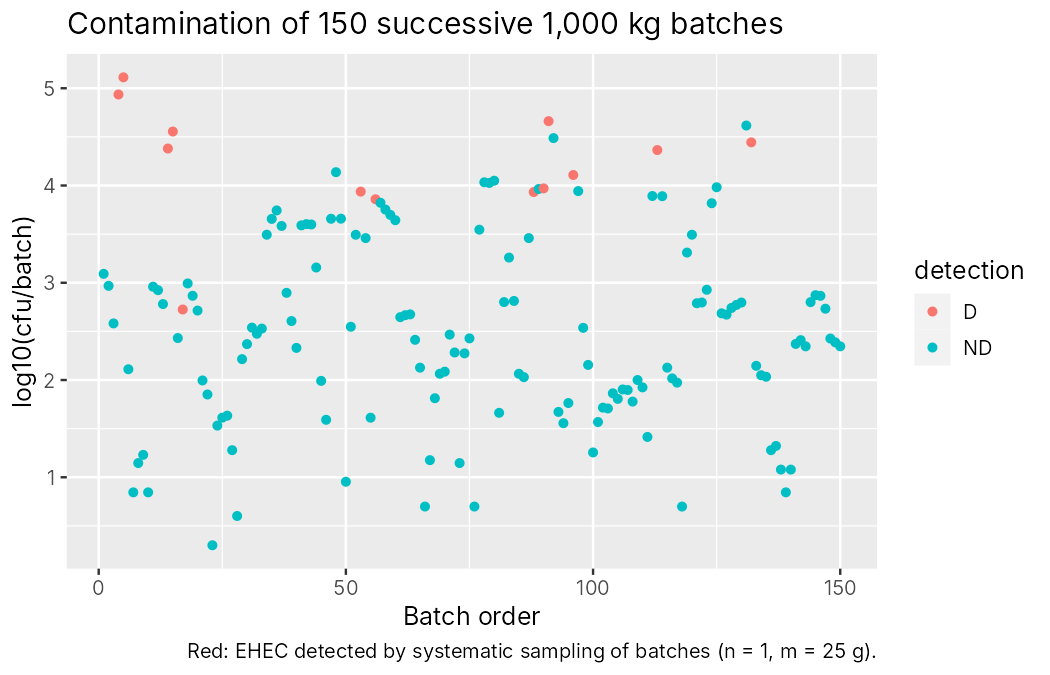
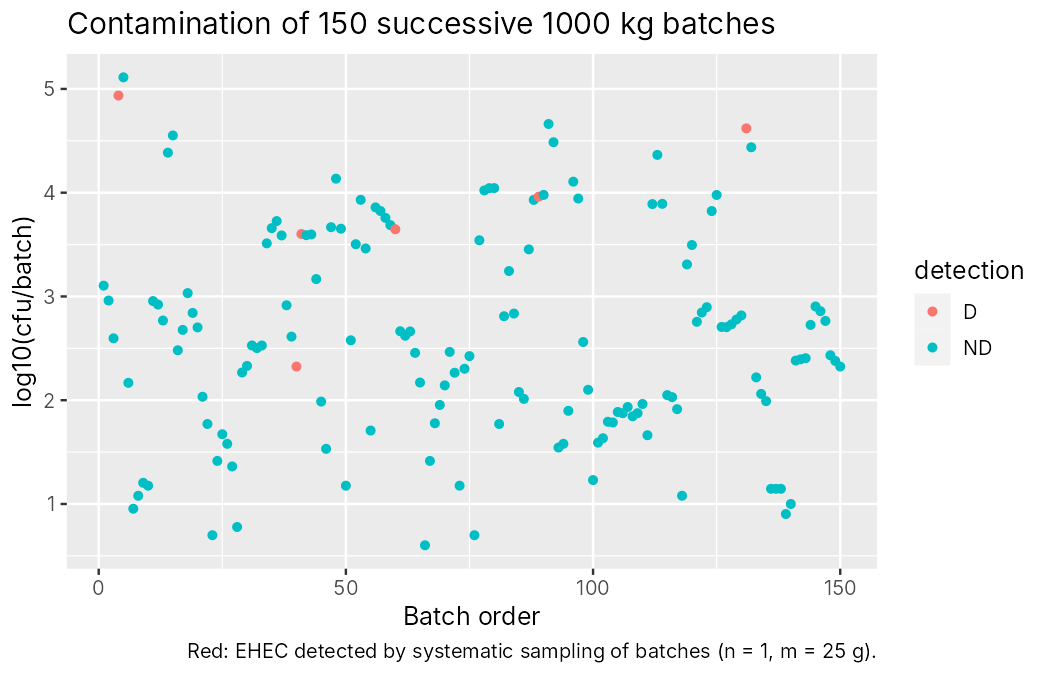
Mixing: fixed b by default, exact mass balance, box mass from the data
- b is fixed at 1 by default and set with b=..., or drawn per batch with
  b_mode=uniform b_min=... b_max=...
- boxes keep their own mass (mass_g), which can differ from the batch mass;
  the recipe is 60/30/10 shares of the batch mass, adjustable with batch_kg
- the mixer holds batch mass + residue: the first batch takes the residue
  too, every batch leaves at exactly batch_kg, the residue stays in the mixer
- mass and bacteria balance (boxes = batches + mixer residue + left in
  boxes) written to output/balance.csv and checked at the end of the run
- parameters can be set as name=value command-line arguments

Claude-Session: https://claude.ai/code/session_01Y1Es8Jbu28C3hz135Bheyj

diff --git a/README.md b/README.md
@@ -27,7 +27,7 @@ data/
 R/
   mix_vph_batches.R              mixing of VPH boxes into batches, Figures 13 to 15
 figures/                         figures produced by R/mix_vph_batches.R
-output/                          summary.csv (batches.csv is regenerated, not versioned)
+output/                          summary.csv, balance.csv (batches.csv is regenerated, not versioned)
 docs/
   index.html                     entry page for the explainers
   vph-box-filling.html           step 1: from 60 carcasses to one VPH box
@@ -67,16 +67,23 @@ All three types share the same upstream contamination distribution; the type lab
 
 [`R/mix_vph_batches.R`](R/mix_vph_batches.R) mixes the boxes of `data/vph_contamination.csv` into minced beef batches following the scenario of Section 3.4.6 (Figure 12) and reproduces Figures 13 to 15 of the opinion:
 
-- each 1,000 kg batch takes 600 kg of chilled fatty, 300 kg of chilled lean and 100 kg of frozen VPH, boxes being used first in, first out until empty (a fatty box feeds about 1.7 batches, a lean box 3.3, a frozen box 10); the 30,000 / 15,000 / 5,000 boxes of the file give 50,000 batches;
-- a box's bacteria are shared between the batches it feeds in proportion to the mass taken (binomial split of the integer counts by default, or proportional split of the expected numbers with `split_mode <- "expected"`);
-- 1/1000 of each batch's bacteria stays in the mixer and goes into the next batch;
-- each batch is tested once (n = 1, absence in 25 g); the probability of detection is 1 − (b / (μ′ + b))^b (Equation 7), with μ′ the mean count in 25 g and the heterogeneity coefficient b drawn uniformly in [0.5, 2] for each batch.
+- each batch is made of 60% chilled fatty, 30% chilled lean and 10% frozen VPH; boxes are used first in, first out until empty, so a box can feed several successive batches and a batch can take material from two boxes of the same type;
+- each box keeps its own mass (column `mass_g`), which can differ from the batch mass; with 1,000 kg boxes and batches, a fatty box feeds about 1.7 batches, a lean box 3.3 and a frozen box 10;
+- a box's bacteria go to the batches in proportion to the mass taken (binomial split of the integer counts by default, or proportional split of the expected numbers with `split_mode=expected`);
+- after each discharge the mixer keeps a residue of 0.1% of the batch mass, which goes into the next batch with its share of the bacteria;
+- each batch is tested once (n = 1, absence in 25 g); the probability of detection is 1 − (b / (μ′ + b))^b (Equation 7), with μ′ the mean count in 25 g and a heterogeneity coefficient b = 1 by default.
+
+**Mass balance.** The mixer always holds the batch mass plus the residue before it discharges: the first batch takes batch mass + residue of fresh VPH, the following ones the batch mass. Every batch therefore leaves at exactly the batch mass, the residue stays in the mixer at the end, and the unused part of the boxes stays in the boxes. The script checks that mass and bacteria in the boxes equal what is in the batches, in the mixer residue and left in the boxes, writes this balance to `output/balance.csv` and stops if it does not close.
 
 ```sh
-Rscript R/mix_vph_batches.R   # from the repository root; needs dplyr and ggplot2
+Rscript R/mix_vph_batches.R                                 # defaults: 1,000 kg batches, b = 1
+Rscript R/mix_vph_batches.R batch_kg=500 b=1.3              # other batch mass and b
+Rscript R/mix_vph_batches.R b_mode=uniform b_min=0.5 b_max=2   # b drawn per batch
 ```
 
-Outputs: `output/batches.csv` (one row per batch: bacteria, boxes used, b, probability of detection, result; not versioned, about 6 MB), `output/summary.csv` and three figures:
+Run it from the repository root; it needs `dplyr` and `ggplot2`. Parameters (`batch_kg`, `carry_over`, `sample_g`, `b_mode`, `b`, `b_min`, `b_max`, `n_enhanced`, `far_lag`, `n_plot`, `split_mode`, `seed`, `input_file`) can be changed at the top of the script or as `name=value` arguments.
+
+Outputs: `output/batches.csv` (one row per batch: bacteria, mass, bacteria carried in, boxes used with the kg taken from each, b, probability of detection, result; not versioned, about 6 MB), `output/summary.csv`, `output/balance.csv` and three figures:
 
 | Figure | Content |
 |---|---|
@@ -84,7 +91,7 @@ Outputs: `output/batches.csv` (one row per batch: bacteria, boxes used, b, proba
 | [`figures/fig14_detection_probability.png`](figures/fig14_detection_probability.png) | probability of detection of the same batches (Figure 14) |
 | [`figures/fig15_cdf_neighbours.png`](figures/fig15_cdf_neighbours.png) | cumulative distributions of contamination for detected batches, the batches just before and after them, and batches 5 away (Figure 15) |
 
-With the example data, 4.9% of batches are detected (2.7% in the opinion), the mean probability of detecting the neighbouring batches with 30 samples is 72% (66% in the opinion), and the median contamination of detected batches is about 200 times that of batches 5 away (about 100 times in the opinion).
+With the example data and the defaults, the boxes give 49,999 batches of 1,000 kg (the first batch also fills the mixer residue). 4.8% of batches are detected (2.7% in the opinion), the mean probability of detecting the neighbouring batches with 30 samples is 73% (66% in the opinion), and the median contamination of detected batches is about 200 times that of batches 5 away (about 100 times in the opinion).
 
 ## Scope
 
